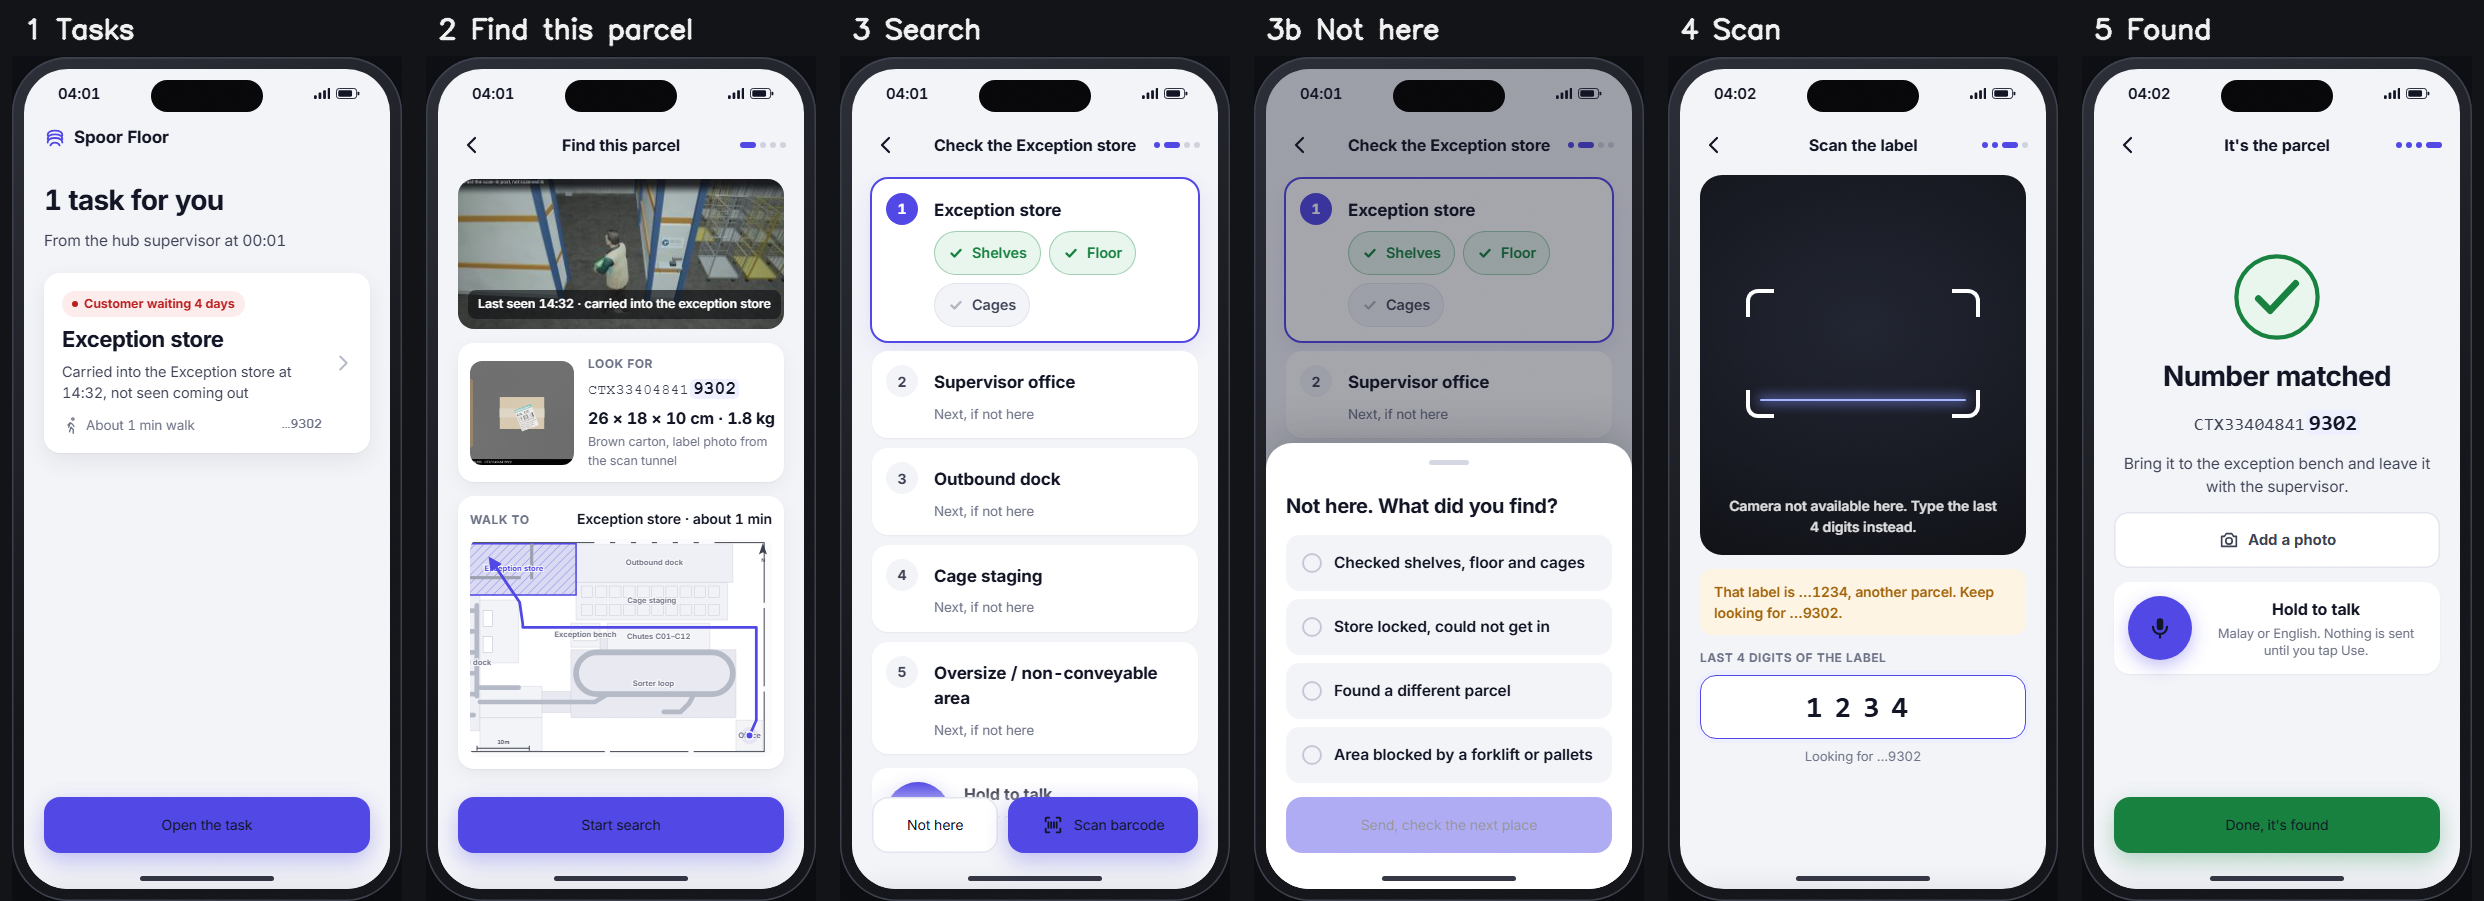
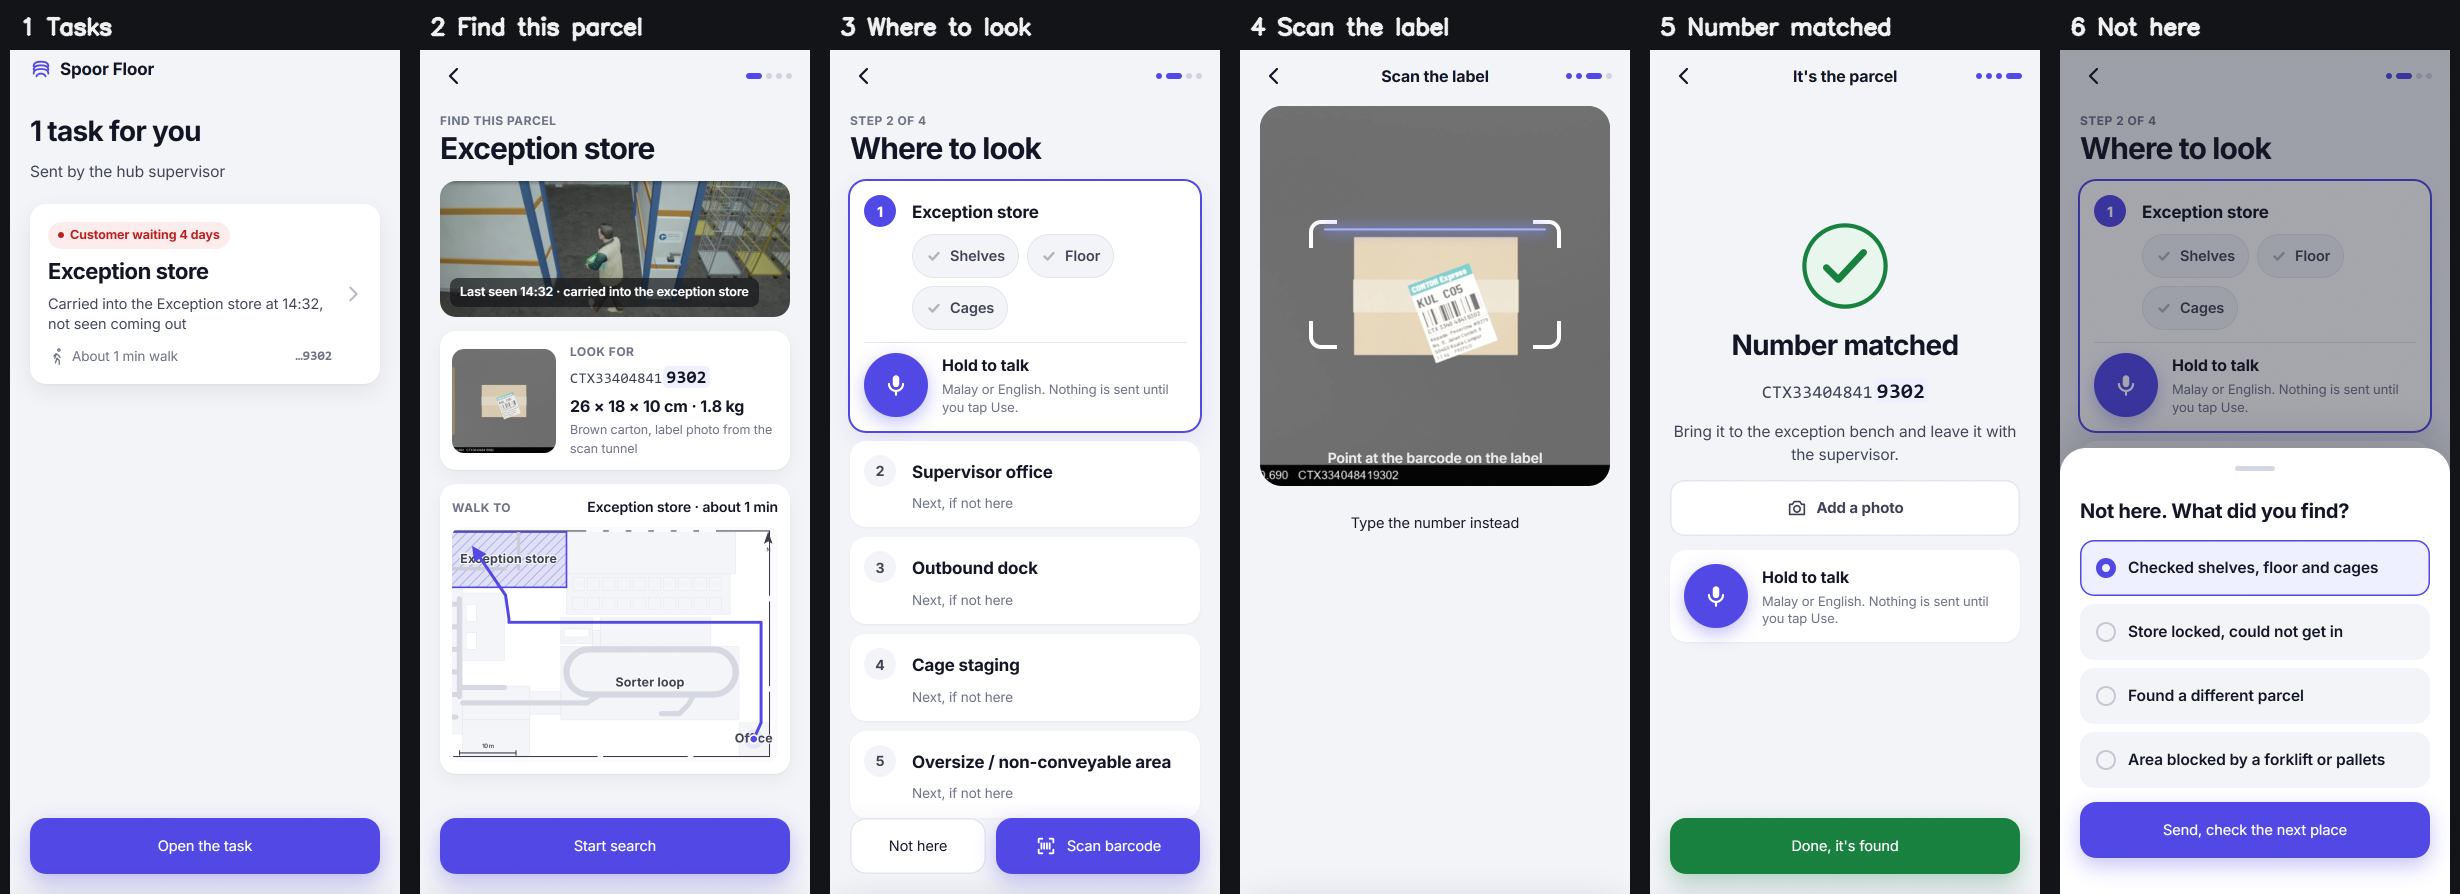
Spoor Floor: voice under the place, hub clock, label to point at, readable walk map and disabled buttons; READY summary for the morning

diff --git a/frontend/src/components/golook/FloorApp.tsx b/frontend/src/components/golook/FloorApp.tsx
@@ -149,7 +149,7 @@ export function FloorApp({ caseId, waybill, waited, framed = true }: { caseId: s
           {screen === "tasks" && (
             <div className="fa-pad">
               <h1 className="fa-h1">{task && place ? "1 task for you" : view.data?.found ? "All done" : "No tasks right now"}</h1>
-              <p className="fa-lead">{task && place ? `From the hub supervisor at ${hm(task.created_at)}` : "New searches arrive here the moment the supervisor sends one."}</p>
+              <p className="fa-lead">{task && place ? "Sent by the hub supervisor" : "New searches arrive here the moment the supervisor sends one."}</p>
               {task && place ? (
                 <button type="button" className="fa-card fa-taskcard" onClick={() => { buzz(); go("task"); }}>
                   <span className="fa-chip" data-tone="urgent">{waited ? `Customer waiting ${waited}` : "Customer waiting"}</span>
@@ -191,7 +191,7 @@ export function FloorApp({ caseId, waybill, waited, framed = true }: { caseId: s
               <section className="fa-card fa-map" aria-label="Where to walk">
                 <div className="fa-map-head"><span className="fa-k">Walk to</span><span>{placeName(place)} · about {walkMin} min</span></div>
                 <FloorPlan label={`Walking route to the ${placeName(place)}`} fit={[you, target, ...route]} margin={4} highlight={zone?.id}
-                  route={route} you={you} labels="major" />
+                  route={route} you={you} labels="none" labelIds={["Z13", zone?.id ?? "", "Z05"]} labelSize={2.3} dim />
               </section>
             </div>
           )}
@@ -209,11 +209,11 @@ export function FloorApp({ caseId, waybill, waited, framed = true }: { caseId: s
                         <b>{placeName(p)}</b>
                         {state === "now" ? <Checklist kind={zoneOf(p)?.kind} /> : <small>{state === "ruled" ? "Checked, not here" : "Next, if not here"}</small>}
                       </span>
+                      {state === "now" && <span className="fa-pv"><VoiceHold caseId={caseId} taskId={task!.search_task_id} areaId={place.area_id} used={note} onUse={setNote} /></span>}
                     </li>
                   );
                 })}
               </ol>
-              <VoiceHold caseId={caseId} taskId={task!.search_task_id} areaId={place.area_id} used={note} onUse={setNote} />
             </div>
           )}
 
@@ -325,11 +325,16 @@ function Mark() {
 }
 
 function StatusBar() {
+  // the hub's clock, not this computer's: the scan log's latest time, ticking on from when the app opened
+  const sites = useResource<{ site_id: string }[]>("/v1/sites");
+  const log = useResource<{ as_of: string | null }>(sites.data?.[0] ? `/v1/sites/${sites.data[0].site_id}/exceptions?limit=50` : null);
   const [t, setT] = useState("");
   useEffect(() => {
-    const f = () => setT(new Date().toLocaleTimeString("en-GB", { hour: "2-digit", minute: "2-digit" }));
+    const base = log.data?.as_of ? Date.parse(log.data.as_of) : null, t0 = Date.now();
+    const f = () => setT(new Date(base !== null ? base + (Date.now() - t0) : Date.now()).toLocaleTimeString("en-GB",
+      { timeZone: "Asia/Kuala_Lumpur", hour: "2-digit", minute: "2-digit" }));
     f(); const i = window.setInterval(f, 15000); return () => window.clearInterval(i);
-  }, []);
+  }, [log.data?.as_of]);
   return (
     <div className="fa-status" aria-hidden>
       <span>{t}</span>
@@ -398,7 +403,11 @@ function Scanner({ waybill, onMatch }: { waybill: string; onMatch: () => void })
       <div className="fa-viewfinder" data-cam={cam}>
         <video ref={vid} muted playsInline />
         <span className="fa-frame" aria-hidden><i /><i /><i /><i /><span className="fa-laser" /></span>
-        <span className="fa-vf-hint">{cam === "none" ? "Camera not available here. Type the last 4 digits instead." : "Point at the barcode on the label"}</span>
+        {cam === "none" && (
+          // eslint-disable-next-line @next/next/no-img-element -- the parcel's own label, from the tunnel's photo: what to point at
+          <img className="fa-vf-label" src={`/scanner/${waybill}.jpg`} alt="" aria-hidden />
+        )}
+        <span className="fa-vf-hint">{cam === "none" ? "No camera on this device: type the last 4 digits below" : "Point at the barcode on the label"}</span>
       </div>
       {miss && <p className="fa-miss" role="status">That label is {miss}, another parcel. Keep looking for …{waybill.slice(-4)}.</p>}
       {typing || cam === "none" ? (

diff --git a/frontend/src/components/plan/FloorPlan.tsx b/frontend/src/components/plan/FloorPlan.tsx
@@ -28,6 +28,11 @@ interface Props {
   cameras?: FPCam[];
   you?: XY;
   labels?: "all" | "major" | "none";
+  /** these zones are named whatever `labels` says, at `labelSize` metres (a phone's small plan: 2-3 names it can read) */
+  labelIds?: string[];
+  labelSize?: number;
+  /** grey every zone but the highlighted one (the route is the subject) */
+  dim?: boolean;
   legend?: boolean;
   onStop?: (n: FPStop["n"]) => void;
 }
@@ -70,11 +75,12 @@ export default function FloorPlan(p: Props) {
   const L = hub.machines.loop;
   const loopD = `M${L.west_cx},${Y(L.south_y)} L${L.east_cx},${Y(L.south_y)} A${L.radius},${L.radius} 0 0 0 ${L.east_cx},${Y(L.north_y)} `
     + `L${L.west_cx},${Y(L.north_y)} A${L.radius},${L.radius} 0 0 0 ${L.west_cx},${Y(L.south_y)} Z`;
-  const showLabel = (id: string) => p.labels === "all" || ((p.labels ?? "major") === "major" && (MAJOR.has(id) || id === p.highlight));
-  const fs = 1.2 * k; // label size in metres of the drawing (≈ 10-11 px on screen)
+  const showLabel = (id: string) => p.labels === "all" || ((p.labels ?? "major") === "major" && (MAJOR.has(id) || id === p.highlight))
+    || !!p.labelIds?.includes(id);
+  const fs = (p.labelSize ?? 1.2) * k; // label size in metres of the drawing (1.2 ≈ 10-11 px on a desktop-width plan)
 
   return (
-    <figure className="fp" aria-label={p.label}>
+    <figure className="fp" aria-label={p.label} data-dim={p.dim ? "" : undefined}>
       <svg viewBox={`${box.x0} ${H - box.y1} ${vw} ${vh}`} role="img" aria-label={p.label} preserveAspectRatio="xMidYMid meet">
         <defs>
           <pattern id={`hatch${uid}`} width={1.2 * k} height={1.2 * k} patternUnits="userSpaceOnUse" patternTransform="rotate(45)">

diff --git a/frontend/src/components/golook/floor.css b/frontend/src/components/golook/floor.css
@@ -264,3 +264,11 @@
 .fa { -webkit-user-select: none; user-select: none; -webkit-touch-callout: none; }
 .fa img { -webkit-user-drag: none; }
 .fa textarea, .fa input { -webkit-user-select: text; user-select: text; }
+
+/* reviewer 04:33: the voice note under the place being checked; disabled buttons readable; the label to point at */
+.fa-places li { grid-template-columns: 36px 1fr; }
+.fa-pv { grid-column: 1 / -1; }
+.fa-pv .fa-voice { padding: 10px 0 0; box-shadow: none; background: transparent; border-top: 1px solid var(--fa-line); border-radius: 0; }
+.fa .fa-primary:disabled { opacity: 1; background: #dcdee7; color: #464b5c; box-shadow: none; }
+.fa-vf-label { position: absolute; left: 50%; top: 47%; width: 46%; transform: translate(-50%, -50%) rotate(-4deg); border-radius: 10px; opacity: 0.92;
+  box-shadow: 0 10px 30px rgba(0, 0, 0, 0.5); }

diff --git a/frontend/src/components/plan/floorplan.css b/frontend/src/components/plan/floorplan.css
@@ -52,3 +52,10 @@
 .fp-legend .fp-k-belt { border-top: 4px solid #b4b9c6; }
 @media (prefers-reduced-motion: reduce) { .fp-you-halo { animation: none; opacity: 0.4; } }
 @media print { .fp svg { background: #fff; } .fp-you-halo { animation: none; } }
+
+/* dim: every zone but the one to reach goes quiet, so the route reads first */
+.fp[data-dim] .fp-zone { fill: #f4f5f8; stroke: #e1e3ea; }
+.fp[data-dim] .fp-bay, .fp[data-dim] .fp-bench { stroke: #dfe2e9; }
+.fp[data-dim] .fp-belt, .fp[data-dim] .fp-loop { stroke: #d5d8e1; }
+.fp[data-dim] .fp-solid { fill: #c9ccd6; }
+.fp[data-dim] .fp-label { fill: #3b3f4c; font-weight: 650; }

diff --git a/review/READY.md b/review/READY.md
@@ -2,6 +2,29 @@
 
 Newest first. Each entry: what is done, where to look, what is still open.
 
+## For Rexton, Tue 3 Nov 08:30: what changed overnight (start here)
+
+- **Go look is a real worker app, "Spoor Floor"** (light, for the hall): Tasks -> Find this parcel (last-seen frame,
+  tunnel photo, size, number with the last 4 marked, walking route) -> Where to look (checklist, hold-to-talk voice
+  note in English or Malay, attached only on "Use this note") -> Scan the label (phone camera; type the last 4 if no
+  camera) -> Number matched / Not here (sheet with reasons) -> Spoor re-plans. iOS large titles, edge swipe back, the
+  place title flows from the card into the task. Full screen on a phone at `/floor/<case>`; the Go look page shows it in
+  a phone frame. Strip: `review/shots/tue/golook/flow.png`.
+- **Report = the case file**, six sections: summary + how sure, every step's frame + the reel, a clean vector route map,
+  records vs cameras, floor check, evidence with SHA-256 + models + cost. A4 print. "Draft the update to the customer"
+  opens a side sheet: chat / email, English / Malay, short / detailed, Spark writes it from verified facts only, each
+  fact links to its frame, "Approve and send" is an audited record (nothing leaves Spoor). `review/shots/tue/report/`.
+- **Agents page** (`/cases/<id>/investigate`, linked from the Answer and every case header): the run as a detective's
+  six questions and answers, every step as a dot per agent (one colour per model), the places as their real frames.
+- **Tags at steps 1 and 3:** tried your +0.5 s / +1.0 s retry (2 SAM calls each); neither passed the checks, so both
+  stay untagged. Every tag still shown is right (eval 13 of 13). The door step now plays 8 s (the carry is on screen).
+- **Decide:** the video script says "Two weeks now"; the case data says the customer waited **4 days** after the last
+  scan (28 Oct -> 1 Nov). The app shows 4 days everywhere. Change the script line to "Four days now", or tell me to
+  move the case date.
+- **Real-footage test:** blocked (no phone takes yet; no openly licensed parcel CCTV clip). Film the two takes from
+  `assets/realtest/FILMING.md` if you want it.
+- Spend overnight: Modal ~US$0.45, SAM ~US$0.25, Spark drafts a few cents.
+
 ## For Rexton, Tue 3 Nov 01:4x: the real-footage test (Task 2), ready to film
 
 - Print `assets/realtest/labels.pdf` at 100 % (three A6 labels, CONTOH Express, CTX900000000101 / 102 / 103).

diff --git a/review/log.md b/review/log.md
@@ -532,3 +532,5 @@
 2026-11-03 04:24 · loop · Proof: the old dark sketch (labels colliding with stops, 'No camera coverage' over stop 12) replaced by the vector FloorPlan used by the Report and the phone: stops numbered like the reel's steps (fanned when stacked), route solid on camera and dashed where none saw it, answer zone hatched; a stop still seeks the reel.
 2026-11-03 04:26 · loop · Insights: KPI subtitles wrap to two lines (two were cut mid-word); an odd last KPI tile spans the row on tablet and phone (it sat alone beside an empty half).
 2026-11-03 04:30 · loop · Cameras: the six checkpoint close-ups (CHK_*) showed broken images with alt text over black: stills cut from their own rendered clips into public/cameras. A branded not-found page (the bare framework 404 read as broken). Console sweep (wall, hub, report, go look, floor, agents): no errors, only dev preload warnings.
+2026-11-03 04:33 · reviewer-night · check: Report (6 sections + customer side sheet) and Spoor Floor app built, loop on tabs running; flow.png reviewed, 6 fixes in TO_AGENT.md. Real-footage: no licensed public clip, left for Rexton's takes.
+2026-11-03 04:36 · loop · Spoor Floor (reviewer 04:33, 6 fixes): voice note under the place being checked (was under the bar); status bar on the hub's clock (scan log time, ticking), task line 'Sent by the hub supervisor' (no real-world time); waiting time from the case data (4 days) everywhere, READY asks Rexton to change the script's 'Two weeks'; scan: with no camera the viewfinder shows the label to point at, the strip shows the real camera path (Chromium fake camera fed the label photo); walk map: only Office / target / sorter named at readable size, the rest of the hub greyed; disabled primary readable (grey fill, dark text). Strip review/shots/tue/golook/flow.png.
